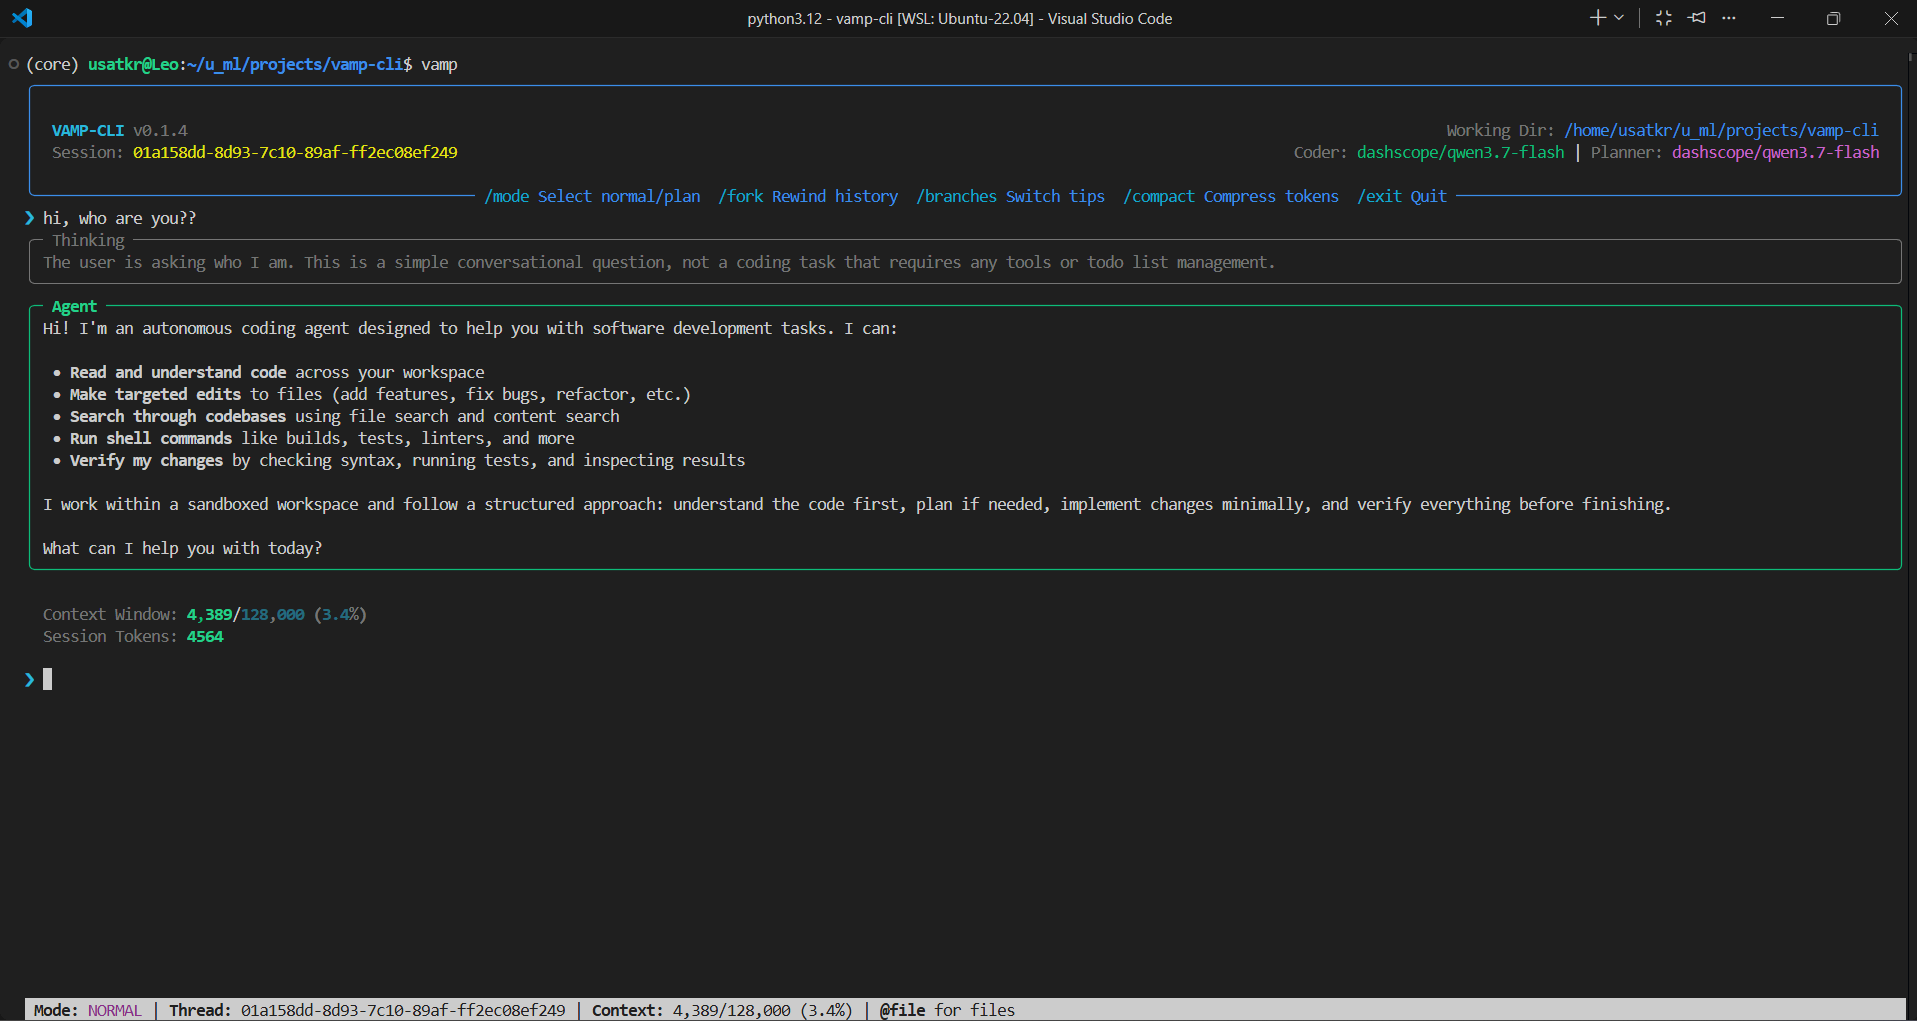
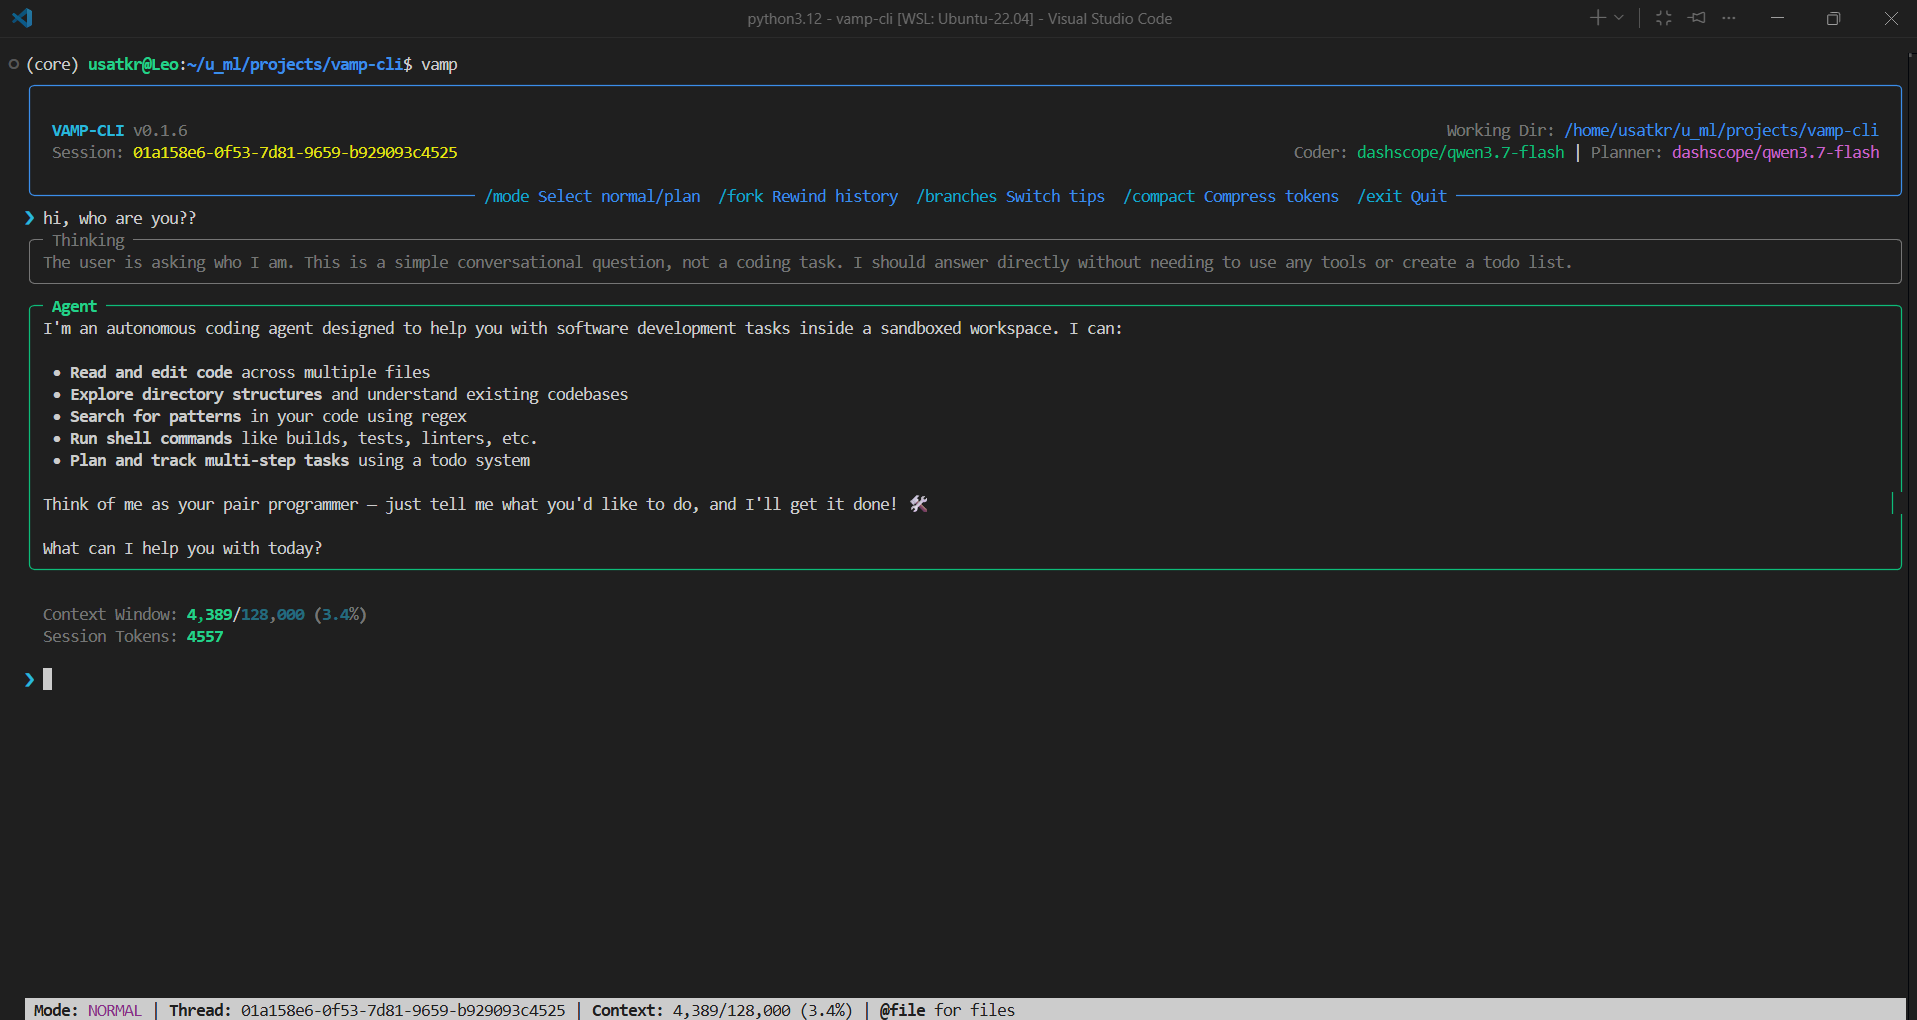
added screenshot

diff --git a/src/vamp_cli/main.py b/src/vamp_cli/main.py
@@ -62,7 +62,7 @@ from langchain_core.runnables import RunnableConfig
 from langgraph.checkpoint.sqlite.aio import AsyncSqliteSaver
 from langchain_core.messages import HumanMessage, SystemMessage
 
-__VERSION__ = "0.1.5"
+__VERSION__ = "0.1.6"
 PROJECT_DIR = str(Path.cwd())
 console = Console()
 
